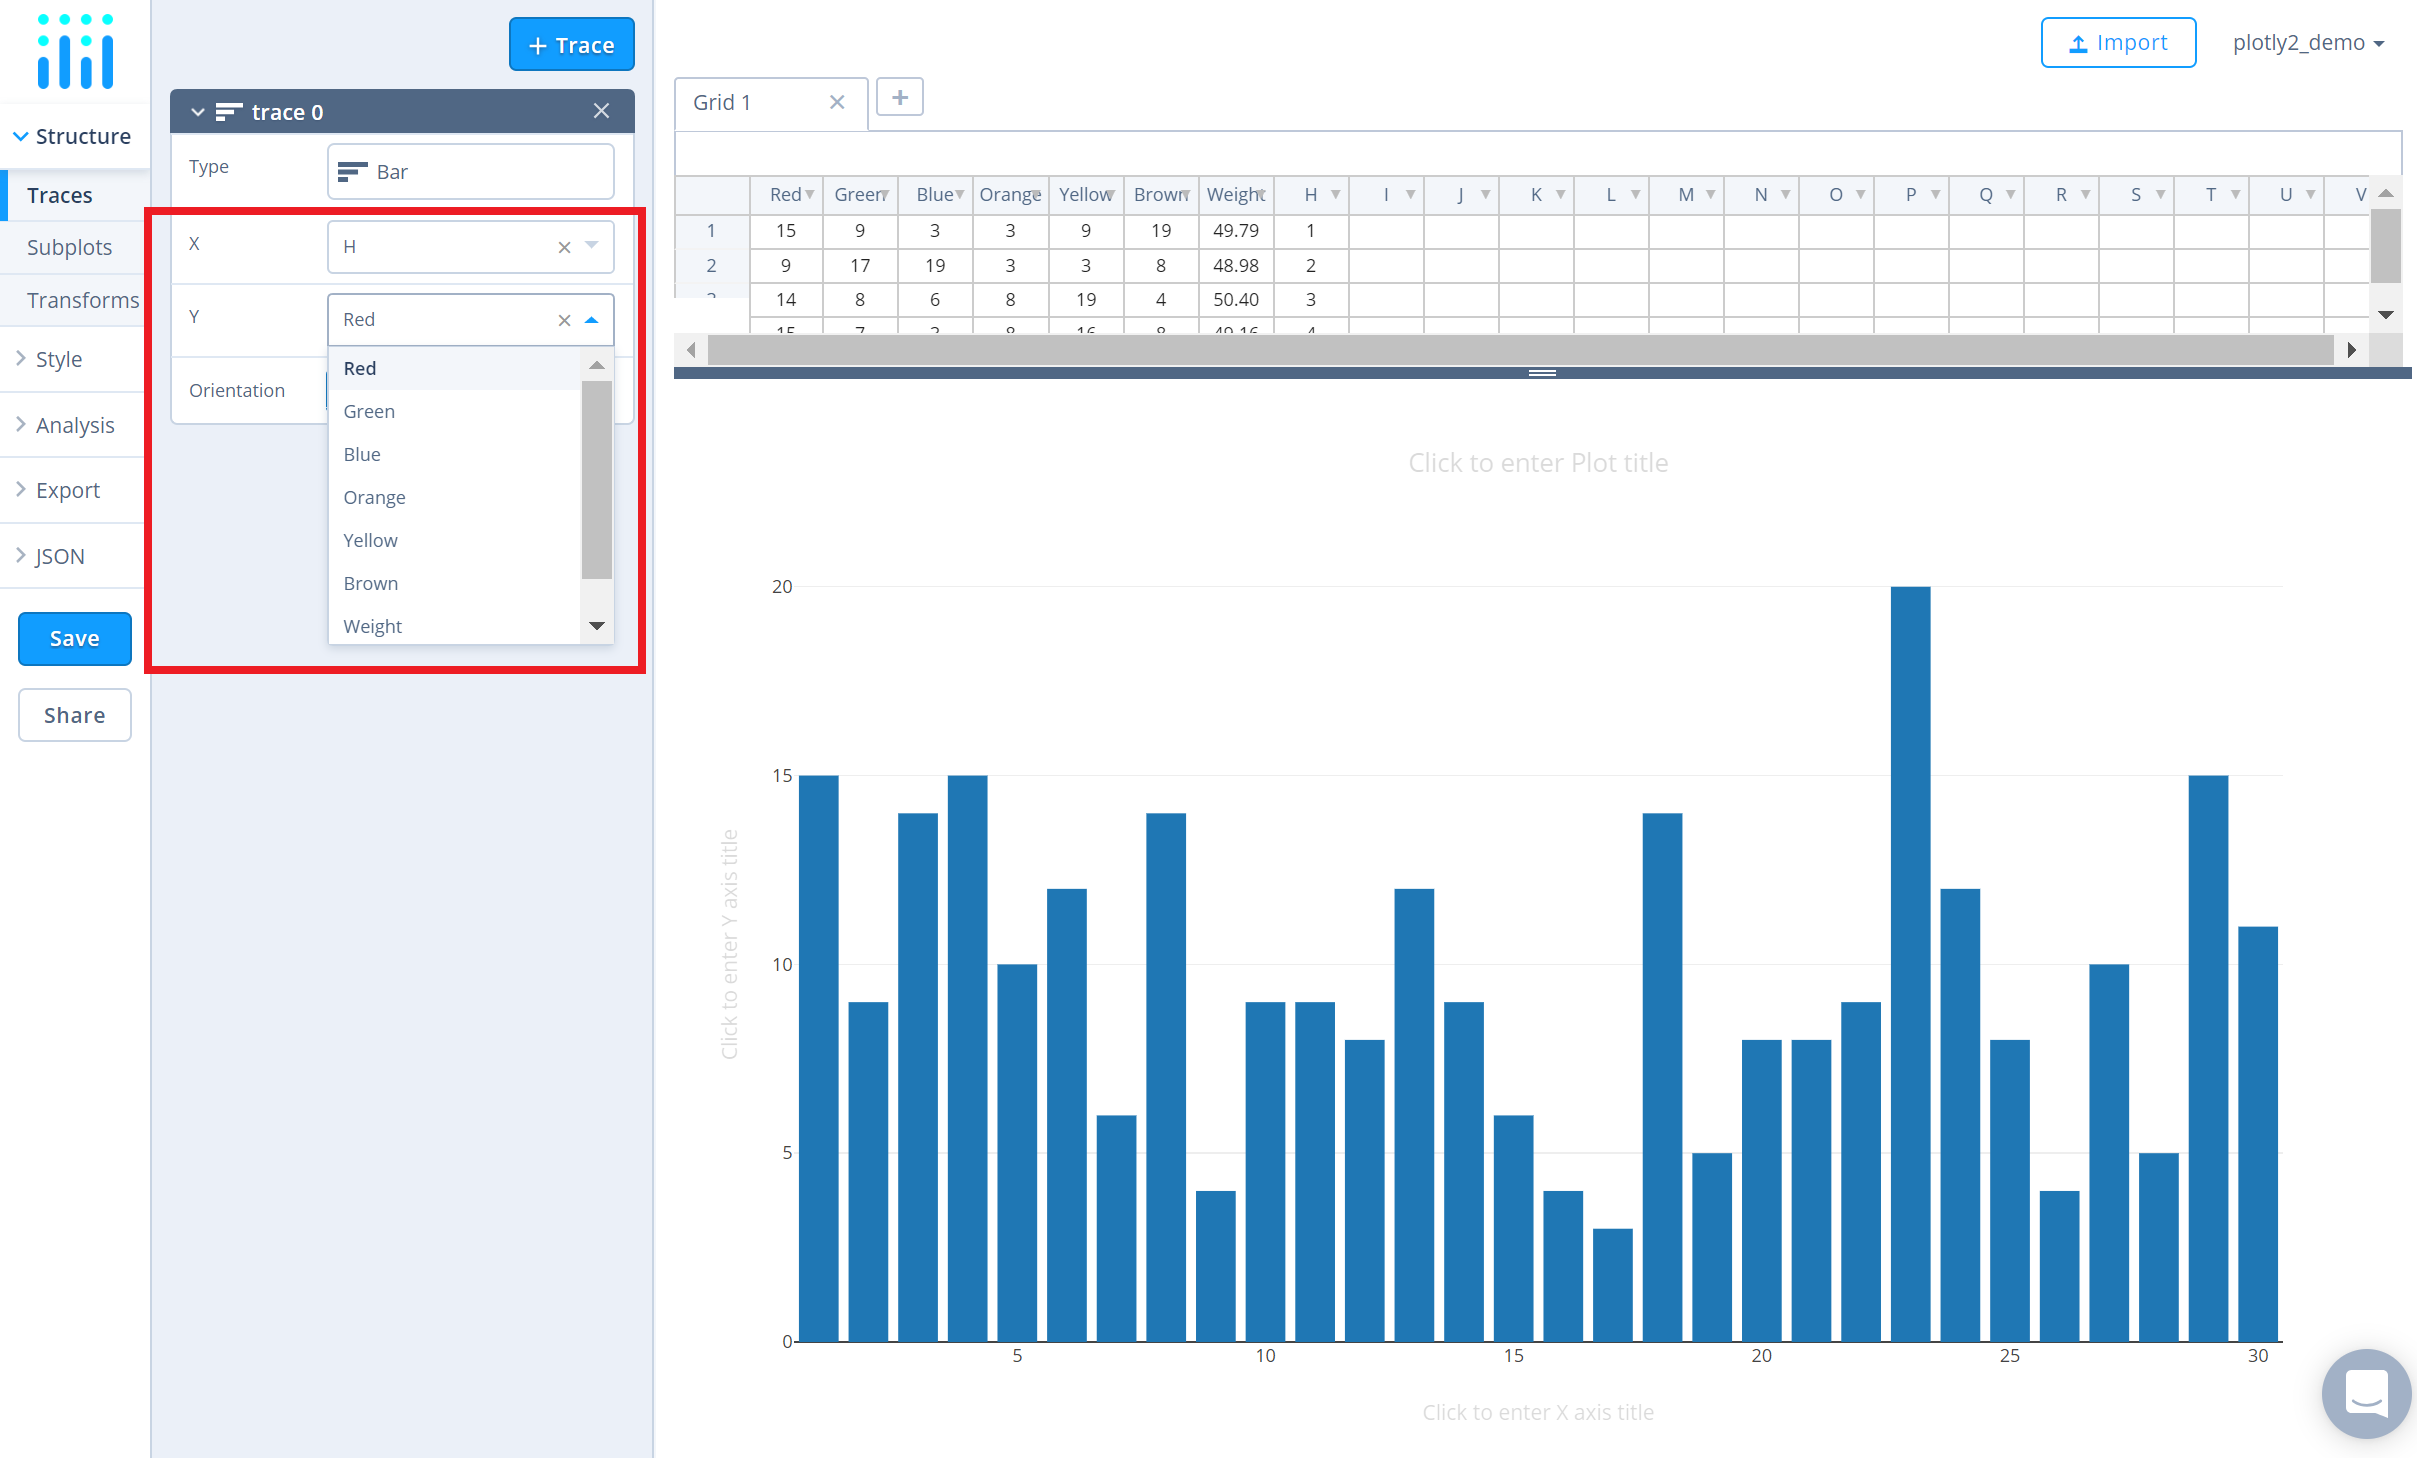
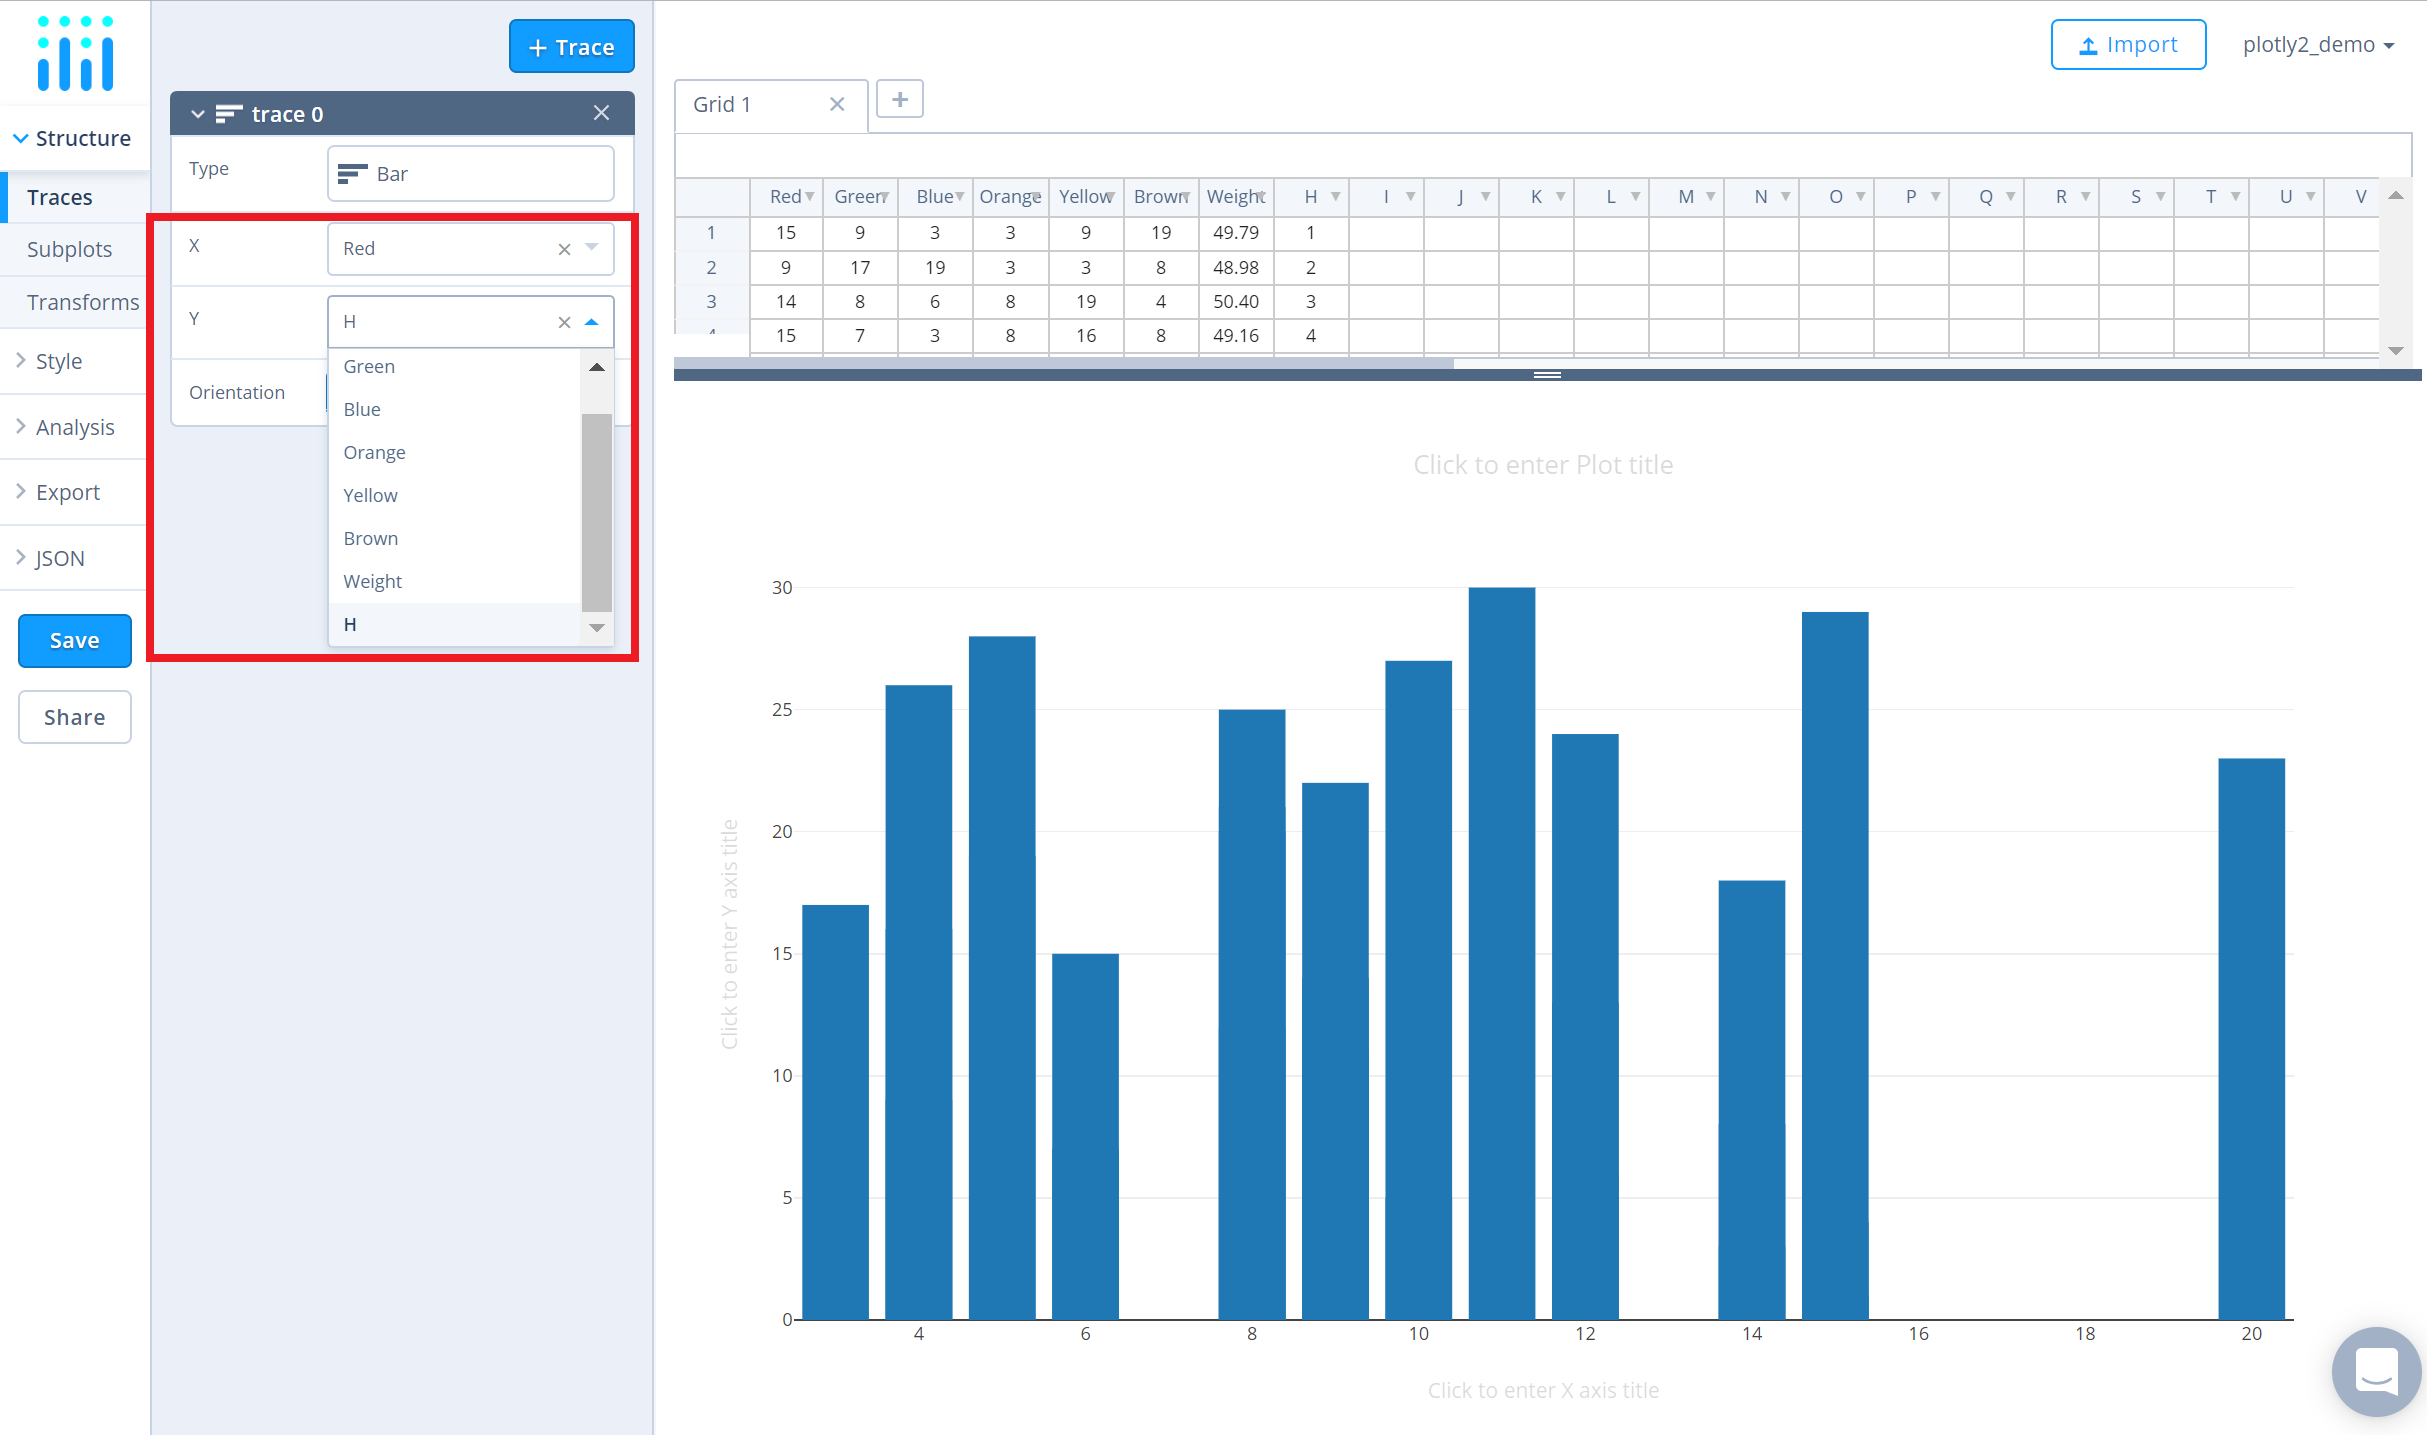
updated markdown of horizontal bar chart doc

diff --git a/_posts/basic/2016-09-15-horizontal-bar-charts-in-plotly2-.md b/_posts/basic/2016-09-15-horizontal-bar-charts-in-plotly2-.md
@@ -1,7 +1,7 @@
 ---
 layout: tutorial-single_layout
 title: Horizontal Bar Charts in Chart Studio
-subtitle: Create one of the most common chart types, in a horizontal fashion.
+subtitle: A type of bar chart that illustrates data with rectangular bars in a horizontal fashion.
 permalink: /horizontal-bar-chart/
 imageurl: ../static/images/bar-graph/horizontalthumbnail.png
 state: active
@@ -10,8 +10,8 @@ order: 6
 meta_description: A tutorial on how to make a horizontal bar chart in Chart Studio.
 popularity: featured
 carouselimageurl:
-actioncall: How to Make a Horizontal Bar Chart in Chart Studio
-actioncall-url: https://plot.ly/alpha/workspace/?fid=plotly2_demo:182
+actioncall: How to make a horizontal bar chart in Plotly's Chart Studio
+actioncall-url: https://plot.ly/create/?fid=plotly2_demo:402
 
 otherlang: Know how to program? See how to create this in [Python](https://plot.ly/python/horizontal-bar-charts/).
 
@@ -21,55 +21,42 @@ live-graph-image:
 steps:
  - title: Try an Example
    sub-steps:
-    - copy: "A bar graph is a chart that uses either horizontal or vertical bars to show comparisons among categories."
-    - copy: "After selecting 'Bar chart' under 'Chart Type', you can check out an example before adding your own data. Clicking the 'try an example' button will show what a sample chart looks like after adding data and playing with the style. You'll also see what labels and style attributes were selected for this specific chart, as well as the end result."
-      img: "![Example after](../static/images/bar-graph/try-an-example-after.png)"
-    - copy: "You can also use the data featured in this tutorial by clicking on 'Open This Data in Plotly' on the left-hand side. It'll open in Plotly’s online [workspace](https://plot.ly/create)."
-      img: "![Open data](../static/images/enter-data-in-the-grid/open-this-data.png)"
+    - copy: "Before getting started with your own dataset, you can check out an example. First, select the 'Type' menu. Hovering the mouse over the chart type icon, will display three options: 1) Charts like this by Plotly users, 2) View tutorials on this chart type and 3) See a basic example."
+    - copy: "Clicking the 'See a basic example' option will show what a sample chart looks like after adding data and editing with the style. You'll also see what labels and style attributes were selected for this specific chart, as well as the end result."
+      img: "![Example after](../static/images/line-graph-and-scatter-plot-with-excel/scatter-try-example.gif)"
+    - copy: "You can also use the data featured in this tutorial by clicking on 'Open This Data in Plotly' on the left-hand side. It'll open in Chart Studio."
 
  - title: Add Your Data to Plotly
    sub-steps:
-    - copy: "Head to Plotly’s new online [workspace](https://plot.ly/alpha/workspace/) and add your data. You have the option of typing directly in the grid, uploading your file, or entering a URL of an online dataset. Plotly accepts .xls, .xlsx, or .csv files. For more information on how to enter your data, see [this](http://help.plot.ly/add-data-to-the-plotly-grid/) tutorial."
-      img: "![Import data main](../static/images/bar-graph/horizontal import.png)"
+    - copy: "Head to Plotly’s [Chart Studio](https://plot.ly/create/) and add your data. You have the option of typing directly in the grid, uploading your file, or entering a URL of an online dataset. Plotly accepts .xls, .xlsx, or .csv files. For more information on how to enter your data, see [this](https://help.plot.ly/add-data-to-the-plotly-grid/) tutorial."
 
  - title: Create a Chart
    sub-steps:
-    - copy: "After adding your own data, go to GRAPH on the left-hand side, then 'Create'. Choose 'Bar chart' under 'Chart type'."
-      img: "![Choose chart main](../static/images/bar-graph/group-chart-type-main.png)"
-    - copy: "Click on GRAPH on the left-hand side to add your y-axis and x-axis to your stacked bar chart. After selecting ‘Bar chart', you should then fill out the Y and X dropdown to create the plot."
-      img: "![Adding x and y axis](../static/images/bar-graph/horizontalxandyvalues.png)"
-    - copy: "This will create a raw stacked chart, as seen below."
-      img: "![Adding x and y axis](../static/images/bar-graph/horizontalrawplot.png)"
-    - copy: "For charts that have more than one set of values such as this one, we need to add more data on the y-axis. We do this by clicking on the '+Trace' button at the top right-hand side of that pane."
-      img: "![Trace open](../static/images/bar-graph/horizontaltracebutton.png)"
-    - copy: "You can add as many traces as you need, until your plot is complete!"
-      img: "![Finished traces](../static/images/bar-graph/horizontal-all-traces.png)"
-    - copy: "This plot looks good so far and has all the traces we need, but we want to make this a horizontal bar chart. By going to the 'Traces' tab under STYLE, we can see that bars are selected as 'Vertical' by default."
-      img: "![Vertical bars](../static/images/bar-graph/horizontal-bars-section.png)"
-    - copy: "All we need to do is select the bar as 'Horizontal', and it's not even necessary to do this to every trace. As you can see in the GIF below, it changes them all at once."
-      img: "![Select horizontal](../static/images/bar-graph/select horizontal.gif)"
-    - copy: "While we're here, we'll also mention that you can make this a stacked bar chart by selecting the 'Stacked' option in this very same section. Check out [this](http://help.plot.ly/stacked-bar-chart/) great tutorial for more information."
-      img: "![Stacked bar](../static/images/bar-graph/stacked horizontal.gif)"
+    - copy: "After adding data, go to the 'Traces' section under the 'Structure' menu on the left-hand side. Choose the 'Type' of trace, then choose 'Bar' under 'Simple' chart type."
+      img: "![Choose chart main](../static/images/bar-graph/bar-choose-chart.png)"
+    - copy: "Next, select 'X' and 'Y' values from the dropdown menus."
+      img: "![Adding x and y axis](../static/images/bar-graph/horizontalbar-x-and-y.png)"
+    - copy: "Then, choose 'Horizontal' as the orentation. This will update the bar trace to horizontal orientation, as seen below."
+      img: "![Orientation Horizontal](../static/images/bar-graph/horizontalbar-horizontal-orientaion.png)"
+    - copy: "To add more traces to the plot, click on '+ Trace' button at the top right corner of the panel in the 'Traces' section under the 'Structure' menu."
+      img: "![Add Trace](../static/images/bar-graph/horizontalbar-add-trace.gif)"
+    - copy: "Add as many traces as needed, until the plot is complete!"
         
  - title: Style a Chart
    sub-steps:
-    - copy: "Let's have some fun and style this plot! You can choose your colors, text position, or typeface. Click on STYLE on the left-hand side to play around with the style of your chart."
-    - copy: "To change the colors of your bars, select ‘Traces’ under the same STYLE tab, then click on FILL and a color pop-up will appear. As you scroll down that pane, each bar will have its own FILL color that you can change. Note that certain colors and typeface are only available with a PRO subscription. Click [here](https://plot.ly/products/cloud/) to upgrade!"
-      img: "![Colour main](../static/images/bar-graph/horizontal traces colour.png)"
-    - copy: "To add a title to your plot, you can type it directly on the title by double-clicking it."
-      img: "![Type directly title](../static/images/bar-graph/horizontal title directly.png)"
-    - copy: "The same can be done for the axis labels and legend."
-      img: "![Type directly legend](../static/images/bar-graph/horizontal axes label.png)"
-    - copy: "Another option is to visit the 'Layout' section under STYLE, click on 'Text' and enter your title in the box, as shown below."
-      img: "![Type in layout panel](../static/images/bar-graph/Horizontaltitle.png)"
-    - copy: "We've also added a subtitle, which you can do by going to the 'Notes' section. For more information about annotations and the different types of notes that can be added to your plot, visit [this](http://help.plot.ly/how-to-add-annotations/) page!"
-      img: "![Subtitle](../static/images/bar-graph/horizontal subtitle.png)"
-        
+    - copy: "The 'Style' menu displays many options to modify characteristics of the overall chart layout or the individual traces. To see more options about styling the chart visit the [style and layout](https://help.plot.ly/tutorials/#layout) section of the Chart Studio documentation."
+    - copy: "To change the properties of the bar traces such as trace name, bar color, size and spacing, go to the 'Traces' section under the 'Style' menu."
+      img: "![Bar Properties](../static/images/bar-graph/groupedbar-bar-properties.png)"
+    - copy: "Note that updating the trace name will update the legends as well."
+      img: "![Trace Name](../static/images/bar-graph/horizontalbar-trace-name.png)"
+    - copy: "To set the plot title, go to the 'General' section under the 'Style' menu and type in the plot title within the textbox provided under 'Title'."
+      img: "![Plot Title](../static/images/bar-graph/horizontalbar-title.png)"
+    - copy: "Another approach is to click and then enter the title directly on the plot interface. The same can be done for the axes title and the legends."
+      img: "![Type directly title](../static/images/bar-graph/horizontalbar-title-direct.png)"
+
  - title: Save and Share
    sub-steps:
-    - copy: "Your chart is now done! Click SAVE on the left-hand side."
-      img: "![Save main](../static/images/bar-graph/horizontalsave.png)"
-    - copy: "After giving your PLOT and DATA a name, select them as 'Public' or 'Private'. For more information on how sharing works, including the difference between private, public and secret sharing, visit [this](http://help.plot.ly/save-share-and-export-in-plotly/) page."
-      img: "![Save pop-up](../static/images/bar-graph/horizontalsavepopup.png)"
+    - copy: "To save the plot click the 'Save' button on the left-hand side. A save modal will appear, as seen below, where you can specify the filenames and privacy settings for your plot and data grid."
+      img: "![Save main](../static/images/bar-graph/groupedbar-save.png)"
+    - copy: "For more information on privacy settings and how sharing works, visit Plotly's [sharing tutorial](http://help.plot.ly/save-share-and-export-in-plotly/)."
 ---
-

diff --git a/_posts/basic/2016-06-28-how-to-make-a-grouped-bar-chart.md b/_posts/basic/2016-06-28-how-to-make-a-grouped-bar-chart.md
@@ -32,7 +32,7 @@ steps:
 
  - title: Create a Chart
    sub-steps:
-    - copy: "After adding data, go to the 'Traces' section under the 'Structure' menu on the left-hand side. Choose the 'Type' of trace, then choose 'Scatter' under 'Simple' chart type."
+    - copy: "After adding data, go to the 'Traces' section under the 'Structure' menu on the left-hand side. Choose the 'Type' of trace, then choose 'Bar' under 'Simple' chart type."
       img: "![Choose chart main](../static/images/bar-graph/bar-choose-chart.png)"
     - copy: "Next, select 'X' and 'Y' values from the dropdown menus. This will create a bar trace, as seen below."
       img: "![Adding x and y axis](../static/images/bar-graph/groupedbar-x-and-y.png)"
